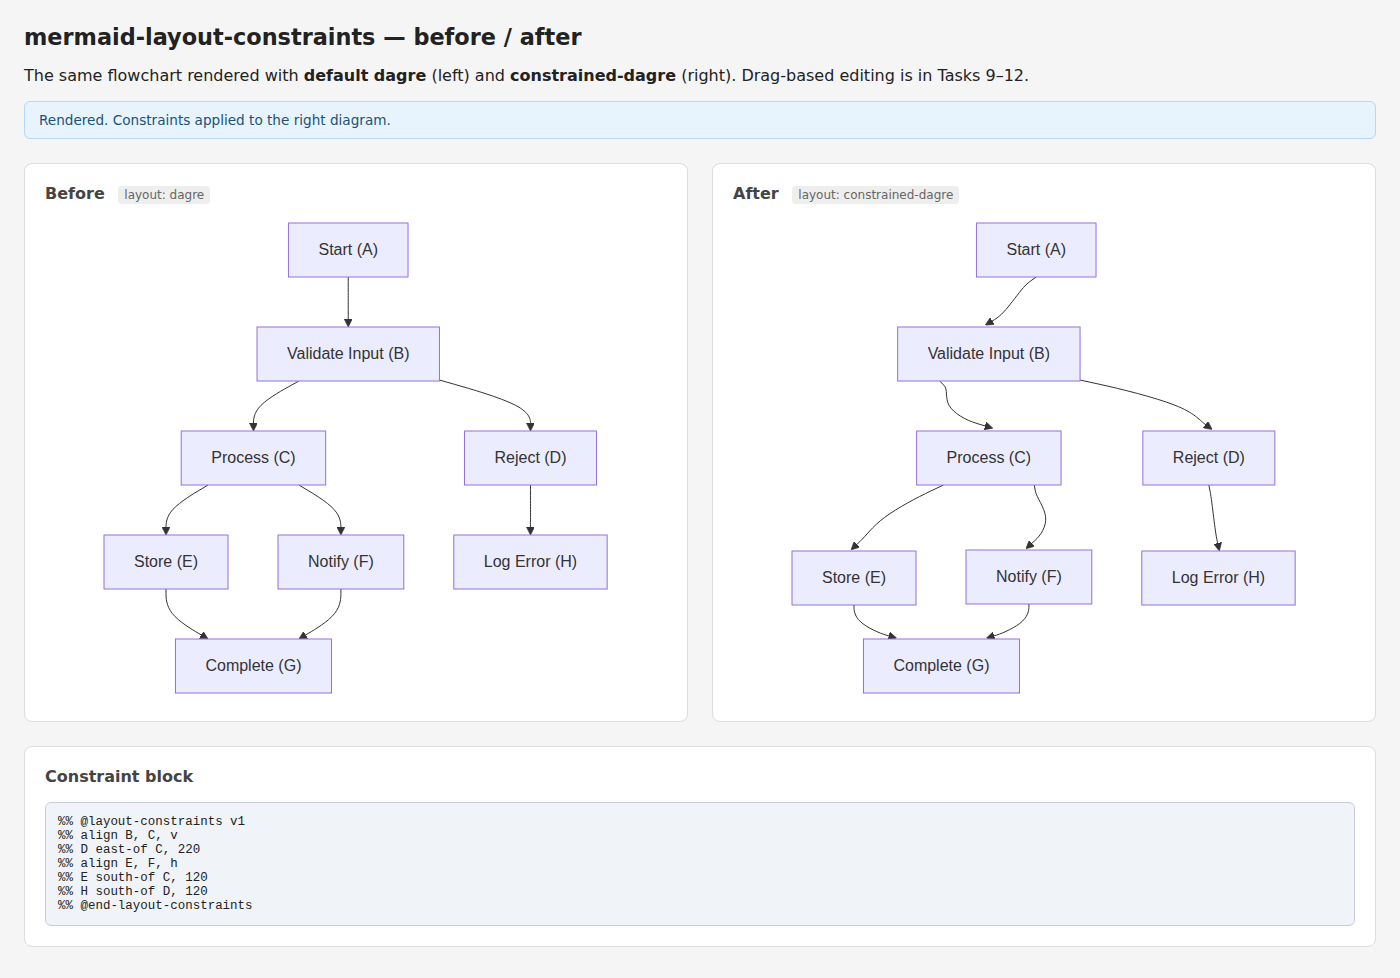
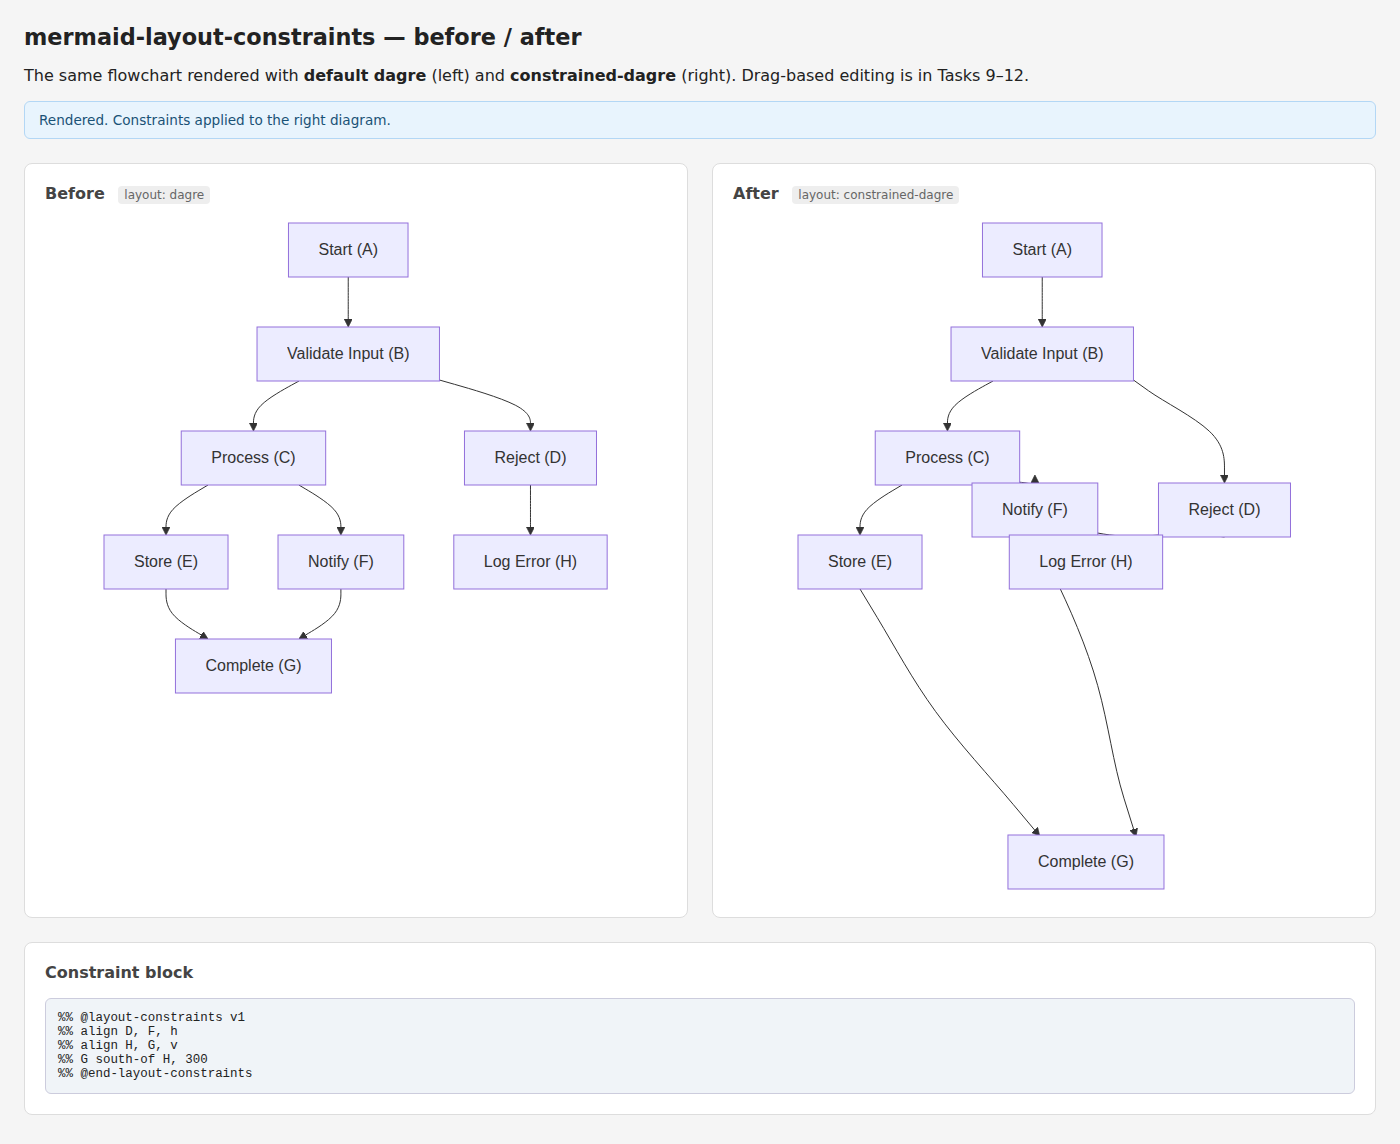
Update demo constraints: align D,F,h | align H,G,v | G south-of H,300
https://claude.ai/code/session_01CpdpcPnybbbef7wn69VXb9

diff --git a/demo/main.ts b/demo/main.ts
@@ -15,11 +15,9 @@ const BASE_DIAGRAM = `flowchart TD
 
 const CONSTRAINT_BLOCK = `
 %% @layout-constraints v1
-%% align B, C, v
-%% D east-of C, 220
-%% align E, F, h
-%% E south-of C, 120
-%% H south-of D, 120
+%% align D, F, h
+%% align H, G, v
+%% G south-of H, 300
 %% @end-layout-constraints`;
 
 const DIAGRAM_WITH_CONSTRAINTS = BASE_DIAGRAM + '\n' + CONSTRAINT_BLOCK;
